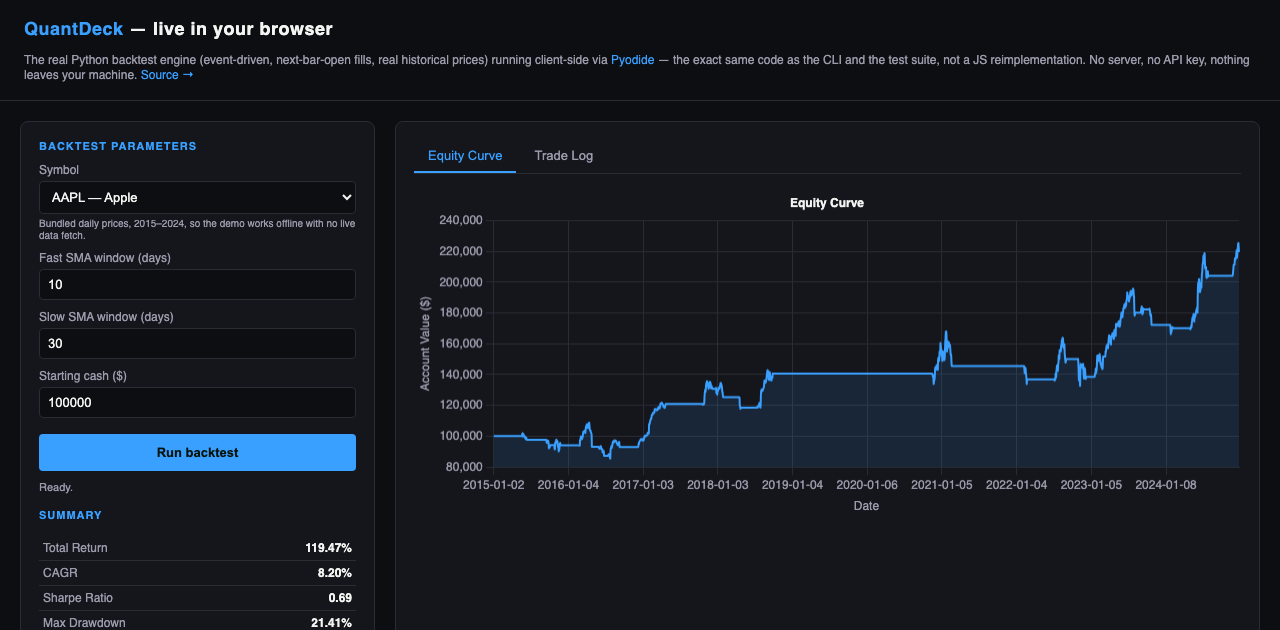
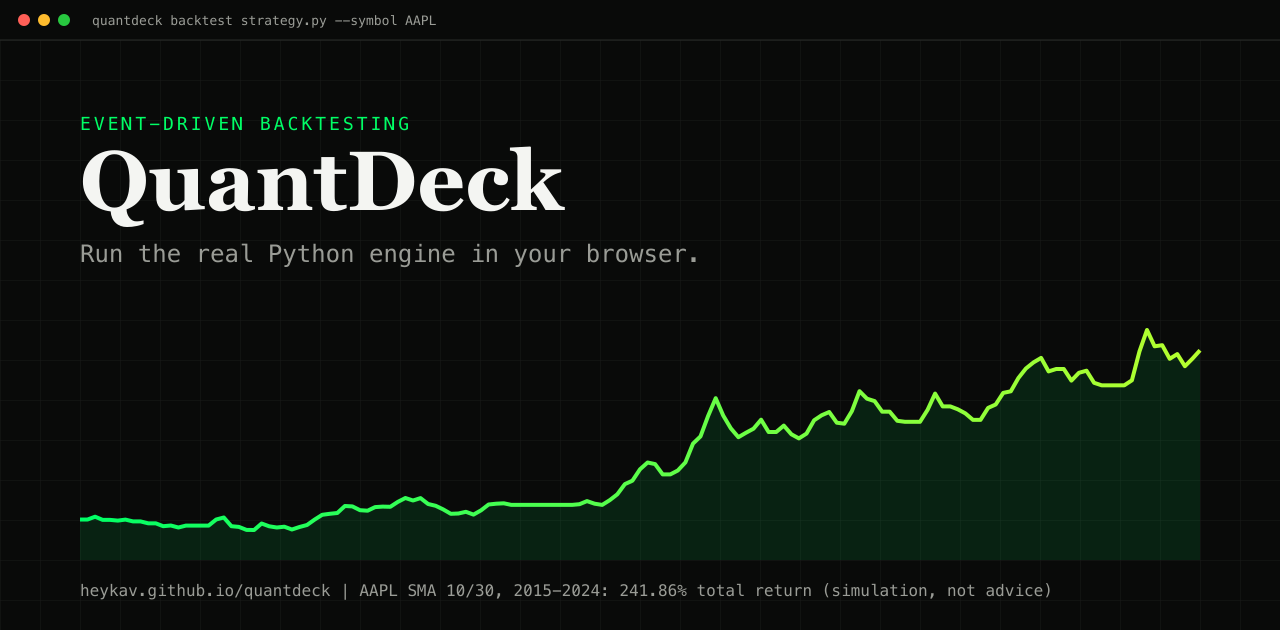
Polish public pages: green hero, demo restyle, fixed social preview (#9)
- README opens with a generated hero (dark and light, SMIL only, reduced-motion aware) built from a real run of the bundled engine
- Live demo restyled to the green terminal look, with the hero, a how-it-works diagram and a visible disclaimer
- docs/og-image.png was a raw screenshot; it is now the branded preview, and the og:image:height meta matches the 1280x630 file
- Retake both screenshots from the current demo
- scripts/render_assets.py regenerates the hero, diagram and og-image

diff --git a/docs/styles.css b/docs/styles.css
@@ -1,11 +1,11 @@
 :root {
-  --bg: #0d0e12;
-  --panel: #15161c;
-  --border: #2a2c34;
+  --bg: #090A09;
+  --panel: #111211;
+  --border: #2a2c29;
   --text: #F4F5F2;
-  --muted: #9a9cac;
-  --accent: #3aa0ff;
-  --green: #3ddc84;
+  --muted: #9a9c96;
+  --accent: #00FF66;
+  --green: #00FF66;
   --red: #ff5c5c;
 }
 * { box-sizing: border-box; }
@@ -13,7 +13,7 @@ body {
   margin: 0;
   background: var(--bg);
   color: var(--text);
-  font-family: -apple-system, "SF Pro Text", "Segoe UI", sans-serif;
+  font-family: ui-monospace, "SFMono-Regular", "DM Mono", "DejaVu Sans Mono", Menlo, Consolas, monospace;
   font-size: 14px;
 }
 header {
@@ -24,7 +24,7 @@ header {
   gap: 14px;
   flex-wrap: wrap;
 }
-header h1 { margin: 0; font-size: 18px; letter-spacing: 0.5px; }
+header h1 { margin: 0; font-family: Georgia, "Times New Roman", serif; font-size: 22px; letter-spacing: 0.5px; }
 header h1 span { color: var(--accent); }
 header p { margin: 0; color: var(--muted); font-size: 12px; }
 header a { color: var(--accent); text-decoration: none; }
@@ -71,7 +71,7 @@ button#run {
   width: 100%;
   margin-top: 16px;
   background: var(--accent);
-  color: #06130a;
+  color: #031a0b;
   border: none;
   border-radius: 4px;
   padding: 11px;
@@ -113,4 +113,15 @@ footer a { color: var(--accent); }
   .layout { padding: 12px; gap: 12px; }
   header { padding: 14px 16px; }
   #controls { min-width: 0; }
+}
+
+.hero { max-width: 1400px; margin: 20px auto 0; padding: 0 20px; }
+.hero img { width: 100%; height: auto; display: block; border-radius: 14px; }
+.how { max-width: 1400px; margin: 0 auto; padding: 0 20px 20px; }
+.how img { width: 100%; height: auto; display: block; border-radius: 14px; }
+.disclaimer { max-width: 1400px; margin: 0 auto; padding: 0 20px 8px; color: var(--muted); font-size: 12px; line-height: 1.6; }
+.disclaimer strong { color: var(--text); }
+@media (prefers-color-scheme: light) {
+  :root { --bg: #F4F5F2; --panel: #eceeea; --border: #c4c7c0; --text: #111211; --muted: #54564f; --accent: #00A84A; --green: #00A84A; --red: #c62828; }
+  button#run { color: #fff; }
 }

diff --git a/docs/index.html b/docs/index.html
@@ -15,7 +15,7 @@
 <meta property="og:description" content="A simple, event-driven backtesting framework for algorithmic trading, running client-side via Pyodide — no server, no API key, real historical data." />
 <meta property="og:image" content="https://heykav.github.io/quantdeck/og-image.png" />
 <meta property="og:image:width" content="1280" />
-<meta property="og:image:height" content="800" />
+<meta property="og:image:height" content="630" />
 <meta property="og:site_name" content="QuantDeck" />
 <meta name="twitter:card" content="summary_large_image" />
 <meta name="twitter:title" content="QuantDeck — event-driven backtesting, live in your browser" />
@@ -38,6 +38,11 @@
         crossorigin="anonymous"></script>
 </head>
 <body>
+
+<div class="hero"><picture>
+  <source media="(prefers-color-scheme: light)" srcset="assets/hero-light.svg">
+  <img src="assets/hero.svg" alt="QuantDeck: a terminal window with a real equity curve from a bundled-data AAPL SMA 10/30 backtest" width="1200" height="440">
+</picture></div>
 
 <header>
   <h1><span>QuantDeck</span> — live in your browser</h1>
@@ -101,6 +106,13 @@
     </div>
   </div>
 </div>
+
+<div class="how"><picture>
+  <source media="(prefers-color-scheme: light)" srcset="assets/how-it-works-light.svg">
+  <img src="assets/how-it-works.svg" alt="How QuantDeck works: strategy, engine, data feed, paper broker, metrics" width="1200" height="380" loading="lazy">
+</picture></div>
+
+<p class="disclaimer"><strong>Educational tool, not financial advice.</strong> Results come from a simulation on bundled historical prices (2015-2024). Backtested performance does not guarantee future results, and a simulation cannot capture every real-world cost and risk.</p>
 
 <footer>Made with ❤ in India by Krishna Anubhav · <a href="https://github.com/heykav/quantdeck">heykav/quantdeck</a></footer>
 

diff --git a/docs/app.js b/docs/app.js
@@ -1,7 +1,8 @@
-const ACCENT = "#3aa0ff", MUTED = "#9a9cac", BORDER = "#2a2c34", TEXT = "#F4F5F2", GREEN = "#3ddc84", RED = "#ff5c5c";
+const LIGHT = window.matchMedia && window.matchMedia("(prefers-color-scheme: light)").matches;
+const ACCENT = LIGHT ? "#00A84A" : "#00FF66", MUTED = LIGHT ? "#54564f" : "#9a9c96", BORDER = LIGHT ? "#c4c7c0" : "#2a2c29", TEXT = LIGHT ? "#111211" : "#F4F5F2", GREEN = ACCENT, RED = LIGHT ? "#c62828" : "#ff5c5c";
 Chart.defaults.color = MUTED;
 Chart.defaults.borderColor = BORDER;
-Chart.defaults.font.family = "-apple-system, sans-serif";
+Chart.defaults.font.family = "ui-monospace, Menlo, Consolas, monospace";
 
 const SRC_FILES = [
   "quantdeck/__init__.py",

diff --git a/scripts/render_assets.py b/scripts/render_assets.py
@@ -1,0 +1,182 @@
+#!/usr/bin/env python3
+"""Renders the README hero, the how-it-works diagram and the social preview.
+
+Everything is generated from one real run of the bundled engine (AAPL, SMA 10/30,
+bundled 2015-2024 prices), so no number in a picture is typed in by hand.
+
+GitHub shows README SVGs through <img>: CSS and SMIL run, script does not. Every
+element is fully drawn in its base state, so a viewer that ignores animation, or
+asks for reduced motion, sees the finished picture. Text is plain font text with
+no per-character positions.
+
+Run from the repo root:  python3 scripts/render_assets.py
+"""
+import json
+import subprocess
+import sys
+from pathlib import Path
+
+ROOT = Path(__file__).resolve().parent.parent
+sys.path.insert(0, str(ROOT / "docs" / "quantdeck_src"))
+import web_glue  # noqa: E402
+
+MONO = 'ui-monospace,"SFMono-Regular","DM Mono","DejaVu Sans Mono",Menlo,Consolas,monospace'
+SERIF = 'Georgia,"Times New Roman",serif'
+
+DARK = dict(bg="#090A09", win="#111211", line="#2a2c29", grid="#1a1b1a", text="#F4F5F2",
+            mute="#9a9c96", a="#00FF66", b="#B6FF2E", chip="#0d0e0c", dot="#090A09")
+LIGHT = dict(bg="#F4F5F2", win="#eceeea", line="#c4c7c0", grid="#e2e3df", text="#111211",
+             mute="#54564f", a="#00A84A", b="#5f9a00", chip="#e6e8e3", dot="#F4F5F2")
+
+
+def run():
+    csv_text = (ROOT / "docs" / "data" / "AAPL.csv").read_text()
+    return json.loads(web_glue.run_web_backtest("AAPL", csv_text, 10, 30, 100000, 0))
+
+
+def curve_points(values, x0, y0, w, h, n=140):
+    step = max(1, len(values) // n)
+    v = values[::step] + [values[-1]]
+    lo, hi = min(v), max(v)
+    pts = [(x0 + w * i / (len(v) - 1), y0 + h - h * (p - lo) / (hi - lo)) for i, p in enumerate(v)]
+    return pts
+
+
+def path_d(pts):
+    return "M" + " L".join(f"{x:.1f} {y:.1f}" for x, y in pts)
+
+
+def chrome(c, w, title):
+    return (f'<rect x="0" y="0" width="{w}" height="40" fill="{c["bg"]}"/>'
+            f'<circle cx="24" cy="20" r="6" fill="#ff5f57"/><circle cx="44" cy="20" r="6" fill="#febc2e"/>'
+            f'<circle cx="64" cy="20" r="6" fill="#28c840"/>'
+            f'<text x="92" y="25" font-family=\'{MONO}\' font-size="13" fill="{c["mute"]}">{title}</text>'
+            f'<path d="M0 40 H{w}" stroke="{c["line"]}"/>')
+
+
+def hero(c, r):
+    W, H = 1200, 440
+    m = r["metrics"]
+    pts = curve_points(r["equity_curve"], 60, 250, 1080, 130)
+    d = path_d(pts)
+    area = d + f" L{pts[-1][0]:.1f} 392 L{pts[0][0]:.1f} 392 Z"
+    ex, ey = pts[-1]
+    chips = [("TOTAL RETURN", f'{m["total_return_pct"]:.2f}%'), ("MAX DRAWDOWN", f'{m["max_drawdown_pct"]:.2f}%'),
+             ("TRADES", str(m["num_trades"])), ("SHARPE", f'{m["sharpe"]:.2f}')]
+    chip_svg = ""
+    for i, (k, v) in enumerate(chips):
+        x = 60 + i * 190
+        chip_svg += (f'<rect x="{x}" y="188" width="176" height="56" rx="8" fill="{c["chip"]}" stroke="{c["line"]}"/>'
+                     f'<text x="{x+14}" y="209" font-family=\'{MONO}\' font-size="10" letter-spacing="1.5" fill="{c["mute"]}">{k}</text>'
+                     f'<text x="{x+14}" y="234" font-family=\'{MONO}\' font-size="20" font-weight="700" fill="{c["a"]}">{v}</text>')
+    return f'''<svg width="{W}" height="{H}" viewBox="0 0 {W} {H}" xmlns="http://www.w3.org/2000/svg" role="img" aria-labelledby="t d">
+<title id="t">QuantDeck</title>
+<desc id="d">A terminal window showing the QuantDeck name, its one-line pitch and a real equity curve from a bundled-data SMA 10/30 backtest of AAPL, 2015 to 2024, with the engine's own summary numbers.</desc>
+<defs>
+<pattern id="g" width="40" height="40" patternUnits="userSpaceOnUse"><path d="M40 0H0V40" fill="none" stroke="{c["grid"]}"/></pattern>
+<linearGradient id="s" x1="0" x2="1"><stop offset="0" stop-color="{c["a"]}"/><stop offset="1" stop-color="{c["b"]}"/></linearGradient>
+<linearGradient id="f" x1="0" y1="0" x2="0" y2="1"><stop offset="0" stop-color="{c["a"]}" stop-opacity=".22"/><stop offset="1" stop-color="{c["a"]}" stop-opacity="0"/></linearGradient>
+<clipPath id="k"><rect width="{W}" height="{H}" rx="14"/></clipPath>
+</defs>
+<style>
+.pulse{{animation:p 2.4s ease-in-out infinite}}
+@keyframes p{{0%,100%{{opacity:1}}50%{{opacity:.35}}}}
+@media (prefers-reduced-motion:reduce){{*{{animation:none!important}}}}
+</style>
+<g clip-path="url(#k)">
+<rect width="{W}" height="{H}" fill="{c["win"]}"/>
+<rect y="40" width="{W}" height="{H-40}" fill="{c["bg"]}"/><rect y="40" width="{W}" height="{H-40}" fill="url(#g)"/>
+{chrome(c, W, "quantdeck backtest strategy.py --symbol AAPL")}
+<text x="60" y="96" font-family=\'{MONO}\' font-size="13" letter-spacing="2.4" fill="{c["a"]}">EVENT-DRIVEN BACKTESTING</text>
+<text x="60" y="142" font-family=\'{SERIF}\' font-size="46" font-weight="700" fill="{c["text"]}">QuantDeck</text>
+<text x="62" y="168" font-family=\'{MONO}\' font-size="15" fill="{c["mute"]}">Write a strategy. Replay it on real prices. No server, no keys.</text>
+{chip_svg}
+<path d="M60 392 H1140" stroke="{c["line"]}"/>
+<path d="{area}" fill="url(#f)"/>
+<path d="{d}" fill="none" stroke="url(#s)" stroke-width="2.5" stroke-linejoin="round"/>
+<circle cx="{ex:.1f}" cy="{ey:.1f}" r="9" fill="{c["b"]}" opacity=".25" class="pulse"/>
+<circle cx="{ex:.1f}" cy="{ey:.1f}" r="4.5" fill="{c["b"]}"/>
+<text x="60" y="418" font-family=\'{MONO}\' font-size="11" fill="{c["mute"]}">Real engine output: AAPL, SMA 10/30, bundled daily prices 2015-2024, $100,000 start. A past simulation, not a prediction or advice.</text>
+</g>
+<rect x=".5" y=".5" width="{W-1}" height="{H-1}" rx="14" fill="none" stroke="{c["line"]}"/>
+</svg>
+'''
+
+
+def diagram(c):
+    W, H = 1200, 380
+    def box(x, y, w, h, title, sub, hi=False):
+        st = c["a"] if hi else c["line"]
+        return (f'<rect x="{x}" y="{y}" width="{w}" height="{h}" rx="10" fill="{c["win"]}" stroke="{st}" stroke-width="{1.6 if hi else 1}"/>'
+                f'<text x="{x+16}" y="{y+34}" font-family=\'{MONO}\' font-size="15" font-weight="700" fill="{c["text"]}">{title}</text>'
+                f'<text x="{x+16}" y="{y+58}" font-family=\'{MONO}\' font-size="12" fill="{c["mute"]}">{sub}</text>')
+    def arrow(x1, y1, x2, y2):
+        return (f'<path d="M{x1} {y1} L{x2} {y2}" stroke="{c["mute"]}" stroke-width="1.6"/>'
+                f'<path d="M{x2-7} {y2-5} L{x2} {y2} L{x2-7} {y2+5}" fill="none" stroke="{c["mute"]}" stroke-width="1.6"/>')
+    return f'''<svg width="{W}" height="{H}" viewBox="0 0 {W} {H}" xmlns="http://www.w3.org/2000/svg" role="img" aria-labelledby="t d">
+<title id="t">How QuantDeck works</title>
+<desc id="d">Your strategy receives one bar at a time from the engine. The engine reads bars from a data feed. Orders go to a simulated paper broker that fills them at the next bar's open. Fills feed the metrics and SQLite storage.</desc>
+<defs>
+<pattern id="g" width="40" height="40" patternUnits="userSpaceOnUse"><path d="M40 0H0V40" fill="none" stroke="{c["grid"]}"/></pattern>
+<clipPath id="k"><rect width="{W}" height="{H}" rx="14"/></clipPath>
+</defs>
+<style>@media (prefers-reduced-motion:reduce){{*{{animation:none!important}}}}</style>
+<g clip-path="url(#k)">
+<rect width="{W}" height="{H}" fill="{c["win"]}"/>
+<rect y="40" width="{W}" height="{H-40}" fill="{c["bg"]}"/><rect y="40" width="{W}" height="{H-40}" fill="url(#g)"/>
+{chrome(c, W, "how-it-works")}
+<text x="40" y="84" font-family=\'{MONO}\' font-size="13" letter-spacing="2.4" fill="{c["a"]}">ONE BAR AT A TIME</text>
+{box(40, 120, 230, 90, "Strategy", "your code: on_bar(bar)", True)}
+{box(335, 120, 230, 90, "BacktestEngine", "the loop, bar by bar")}
+{box(630, 120, 230, 90, "PaperBroker", "fills, slippage, fees")}
+{box(925, 120, 235, 90, "Metrics + SQLite", "return, Sharpe, drawdown")}
+{arrow(270, 165, 331, 165)}{arrow(565, 165, 626, 165)}{arrow(860, 165, 921, 165)}
+{box(335, 262, 230, 80, "DataFeed", "yfinance or CSV")}
+{arrow(450, 262, 450, 214)}
+<text x="40" y="250" font-family=\'{MONO}\' font-size="12" fill="{c["mute"]}">buy() / sell() go back</text>
+<text x="40" y="268" font-family=\'{MONO}\' font-size="12" fill="{c["mute"]}">to the engine as orders</text>
+<text x="630" y="250" font-family=\'{MONO}\' font-size="12" fill="{c["b"]}">Orders fill at the NEXT bar's open,</text>
+<text x="630" y="268" font-family=\'{MONO}\' font-size="12" fill="{c["b"]}">so a strategy never trades on the future.</text>
+<circle cx="52" cy="165" r="5" fill="{c["b"]}"><animate attributeName="cx" values="52;1140" dur="6s" repeatCount="indefinite"/></circle>
+</g>
+<rect x=".5" y=".5" width="{W-1}" height="{H-1}" rx="14" fill="none" stroke="{c["line"]}"/>
+</svg>
+'''
+
+
+def og(r):
+    c = DARK
+    m = r["metrics"]
+    pts = curve_points(r["equity_curve"], 80, 330, 1120, 200)
+    d = path_d(pts)
+    return f'''<svg width="1280" height="630" viewBox="0 0 1280 630" xmlns="http://www.w3.org/2000/svg">
+<defs><pattern id="g" width="40" height="40" patternUnits="userSpaceOnUse"><path d="M40 0H0V40" fill="none" stroke="{c["grid"]}"/></pattern>
+<linearGradient id="s" x1="0" x2="1"><stop offset="0" stop-color="{c["a"]}"/><stop offset="1" stop-color="{c["b"]}"/></linearGradient></defs>
+<rect width="1280" height="630" fill="{c["bg"]}"/><rect width="1280" height="630" fill="url(#g)"/>
+{chrome(c, 1280, "quantdeck backtest strategy.py --symbol AAPL")}
+<text x="80" y="130" font-family=\'{MONO}\' font-size="18" letter-spacing="3" fill="{c["a"]}">EVENT-DRIVEN BACKTESTING</text>
+<text x="80" y="210" font-family=\'{SERIF}\' font-size="84" font-weight="700" fill="{c["text"]}">QuantDeck</text>
+<text x="80" y="262" font-family=\'{MONO}\' font-size="24" fill="{c["mute"]}">Run the real Python engine in your browser.</text>
+<path d="{d} L{pts[-1][0]:.1f} 560 L80 560 Z" fill="{c["a"]}" opacity=".10"/>
+<path d="{d}" fill="none" stroke="url(#s)" stroke-width="4" stroke-linejoin="round"/>
+<text x="80" y="596" font-family=\'{MONO}\' font-size="16" fill="{c["mute"]}">heykav.github.io/quantdeck   |   AAPL SMA 10/30, 2015-2024: {m["total_return_pct"]:.2f}% total return (simulation, not advice)</text>
+</svg>
+'''
+
+
+def main():
+    r = run()
+    out = ROOT / "docs" / "assets"
+    out.mkdir(parents=True, exist_ok=True)
+    (out / "hero.svg").write_text(hero(DARK, r))
+    (out / "hero-light.svg").write_text(hero(LIGHT, r))
+    (out / "how-it-works.svg").write_text(diagram(DARK))
+    (out / "how-it-works-light.svg").write_text(diagram(LIGHT))
+    og_svg = out / "og-source.svg"
+    og_svg.write_text(og(r))
+    subprocess.run(["rsvg-convert", "-w", "1280", "-o", str(ROOT / "docs" / "og-image.png"), str(og_svg)], check=True)
+    og_svg.unlink()
+
+
+if __name__ == "__main__":
+    main()

diff --git a/README.md b/README.md
@@ -1,17 +1,20 @@
 # QuantDeck
 
-<picture>
-  <source media="(prefers-color-scheme: dark)" srcset="docs/img/banner-dark.svg">
-  <source media="(prefers-color-scheme: light)" srcset="docs/img/banner-light.svg">
-  <img src="docs/img/banner-light.svg" alt="QuantDeck banner: a small event-driven backtesting framework. The background line is the real equity curve of the bundled SMA crossover example on synthetic data.">
-</picture>
+<p align="center">
+  <a href="https://heykav.github.io/quantdeck/"><picture>
+    <source media="(prefers-color-scheme: light)" srcset="docs/assets/hero-light.svg">
+    <img src="docs/assets/hero.svg" alt="QuantDeck: a terminal window with a real equity curve from a bundled-data AAPL SMA 10/30 backtest" width="900">
+  </picture></a>
+</p>
+
+*The picture is real engine output (AAPL, SMA 10/30, bundled 2015-2024 prices, the same run the live demo does). It is a past simulation, not a prediction or financial advice.*
 
 A small, event-driven backtesting framework for single-symbol trading strategies. Write a `Strategy` class, replay it over OHLCV bars, get an equity curve, trade list and risk metrics. It runs offline on CSV files and needs no database server.
 
 <p>
-  <a href="https://heykav.github.io/quantdeck/"><img src="https://img.shields.io/badge/Open%20the%20live%20web%20demo-QuantDeck-3AA0FF?style=for-the-badge&labelColor=0d0e12" alt="Open the live QuantDeck web demo"></a>
+  <a href="https://heykav.github.io/quantdeck/"><img src="https://img.shields.io/badge/Open%20the%20live%20web%20demo-QuantDeck-00FF66?style=for-the-badge&labelColor=090A09" alt="Open the live QuantDeck web demo"></a>
   &nbsp;&nbsp;
-  <a href="LICENSE"><img src="https://img.shields.io/badge/License-MIT-161715?style=for-the-badge&labelColor=0d0e12" alt="View the MIT license"></a>
+  <a href="LICENSE"><img src="https://img.shields.io/badge/License-MIT-161715?style=for-the-badge&labelColor=090A09" alt="View the MIT license"></a>
 </p>
 
 ## Quickstart (offline, about a minute)
